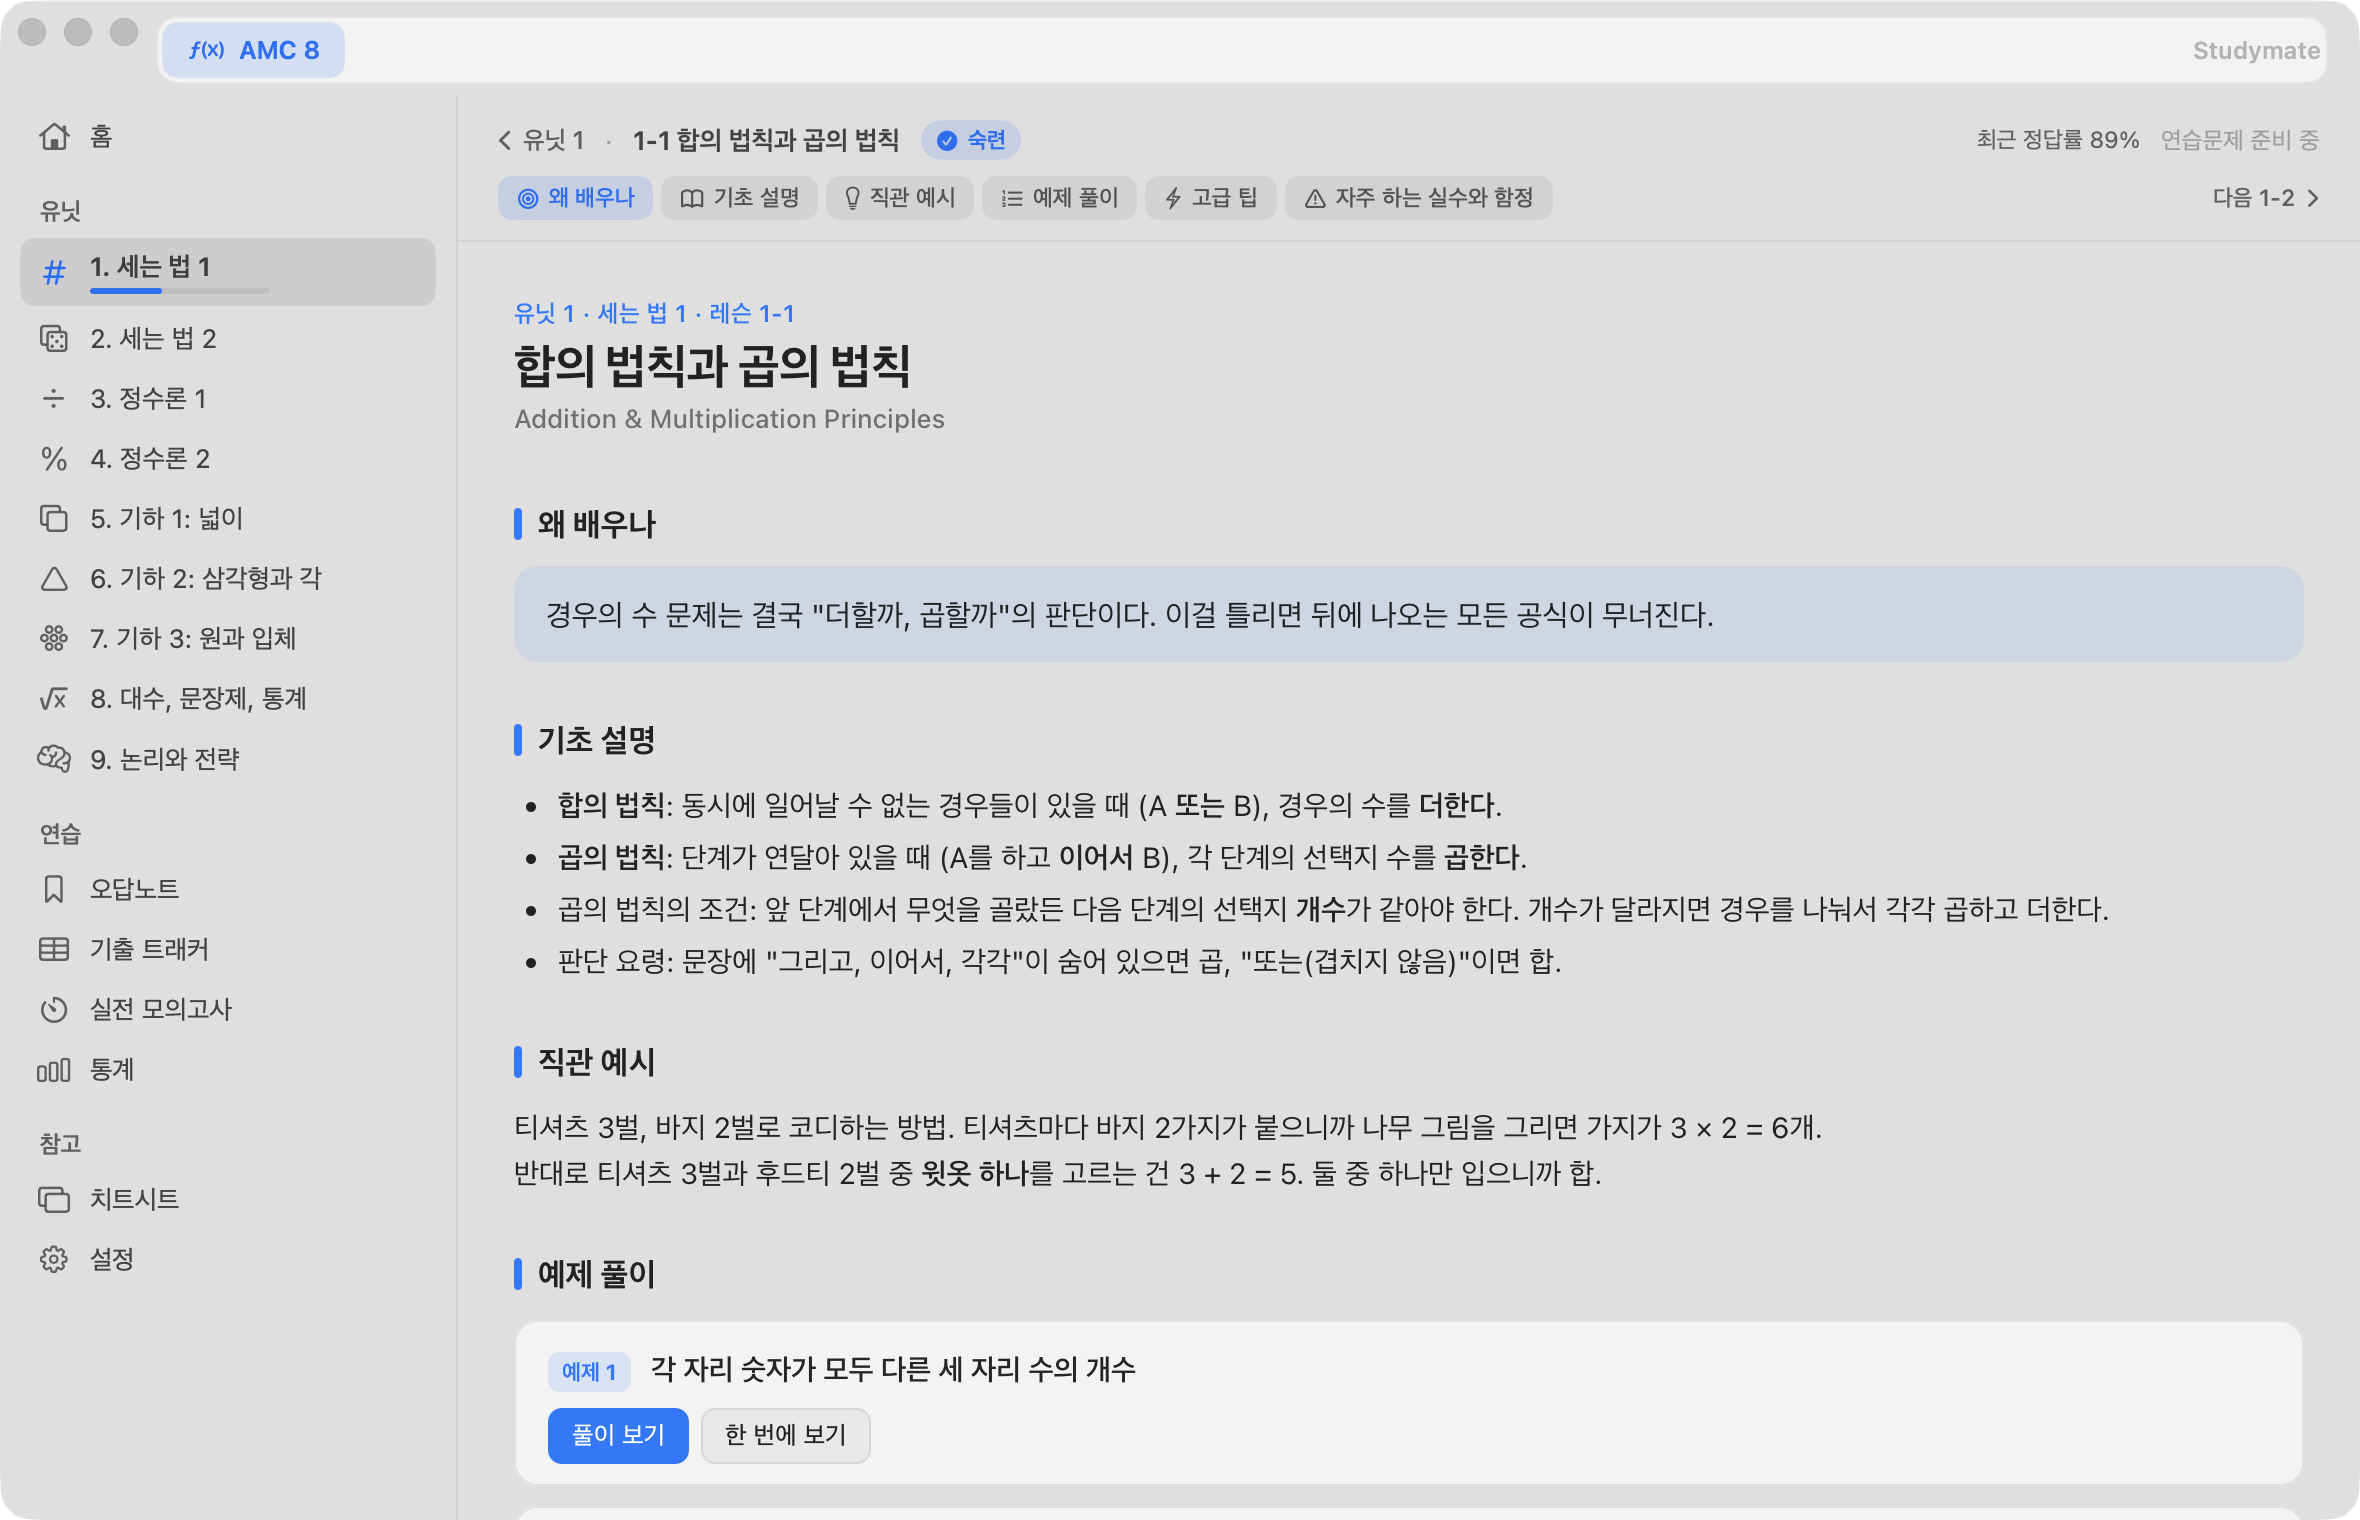
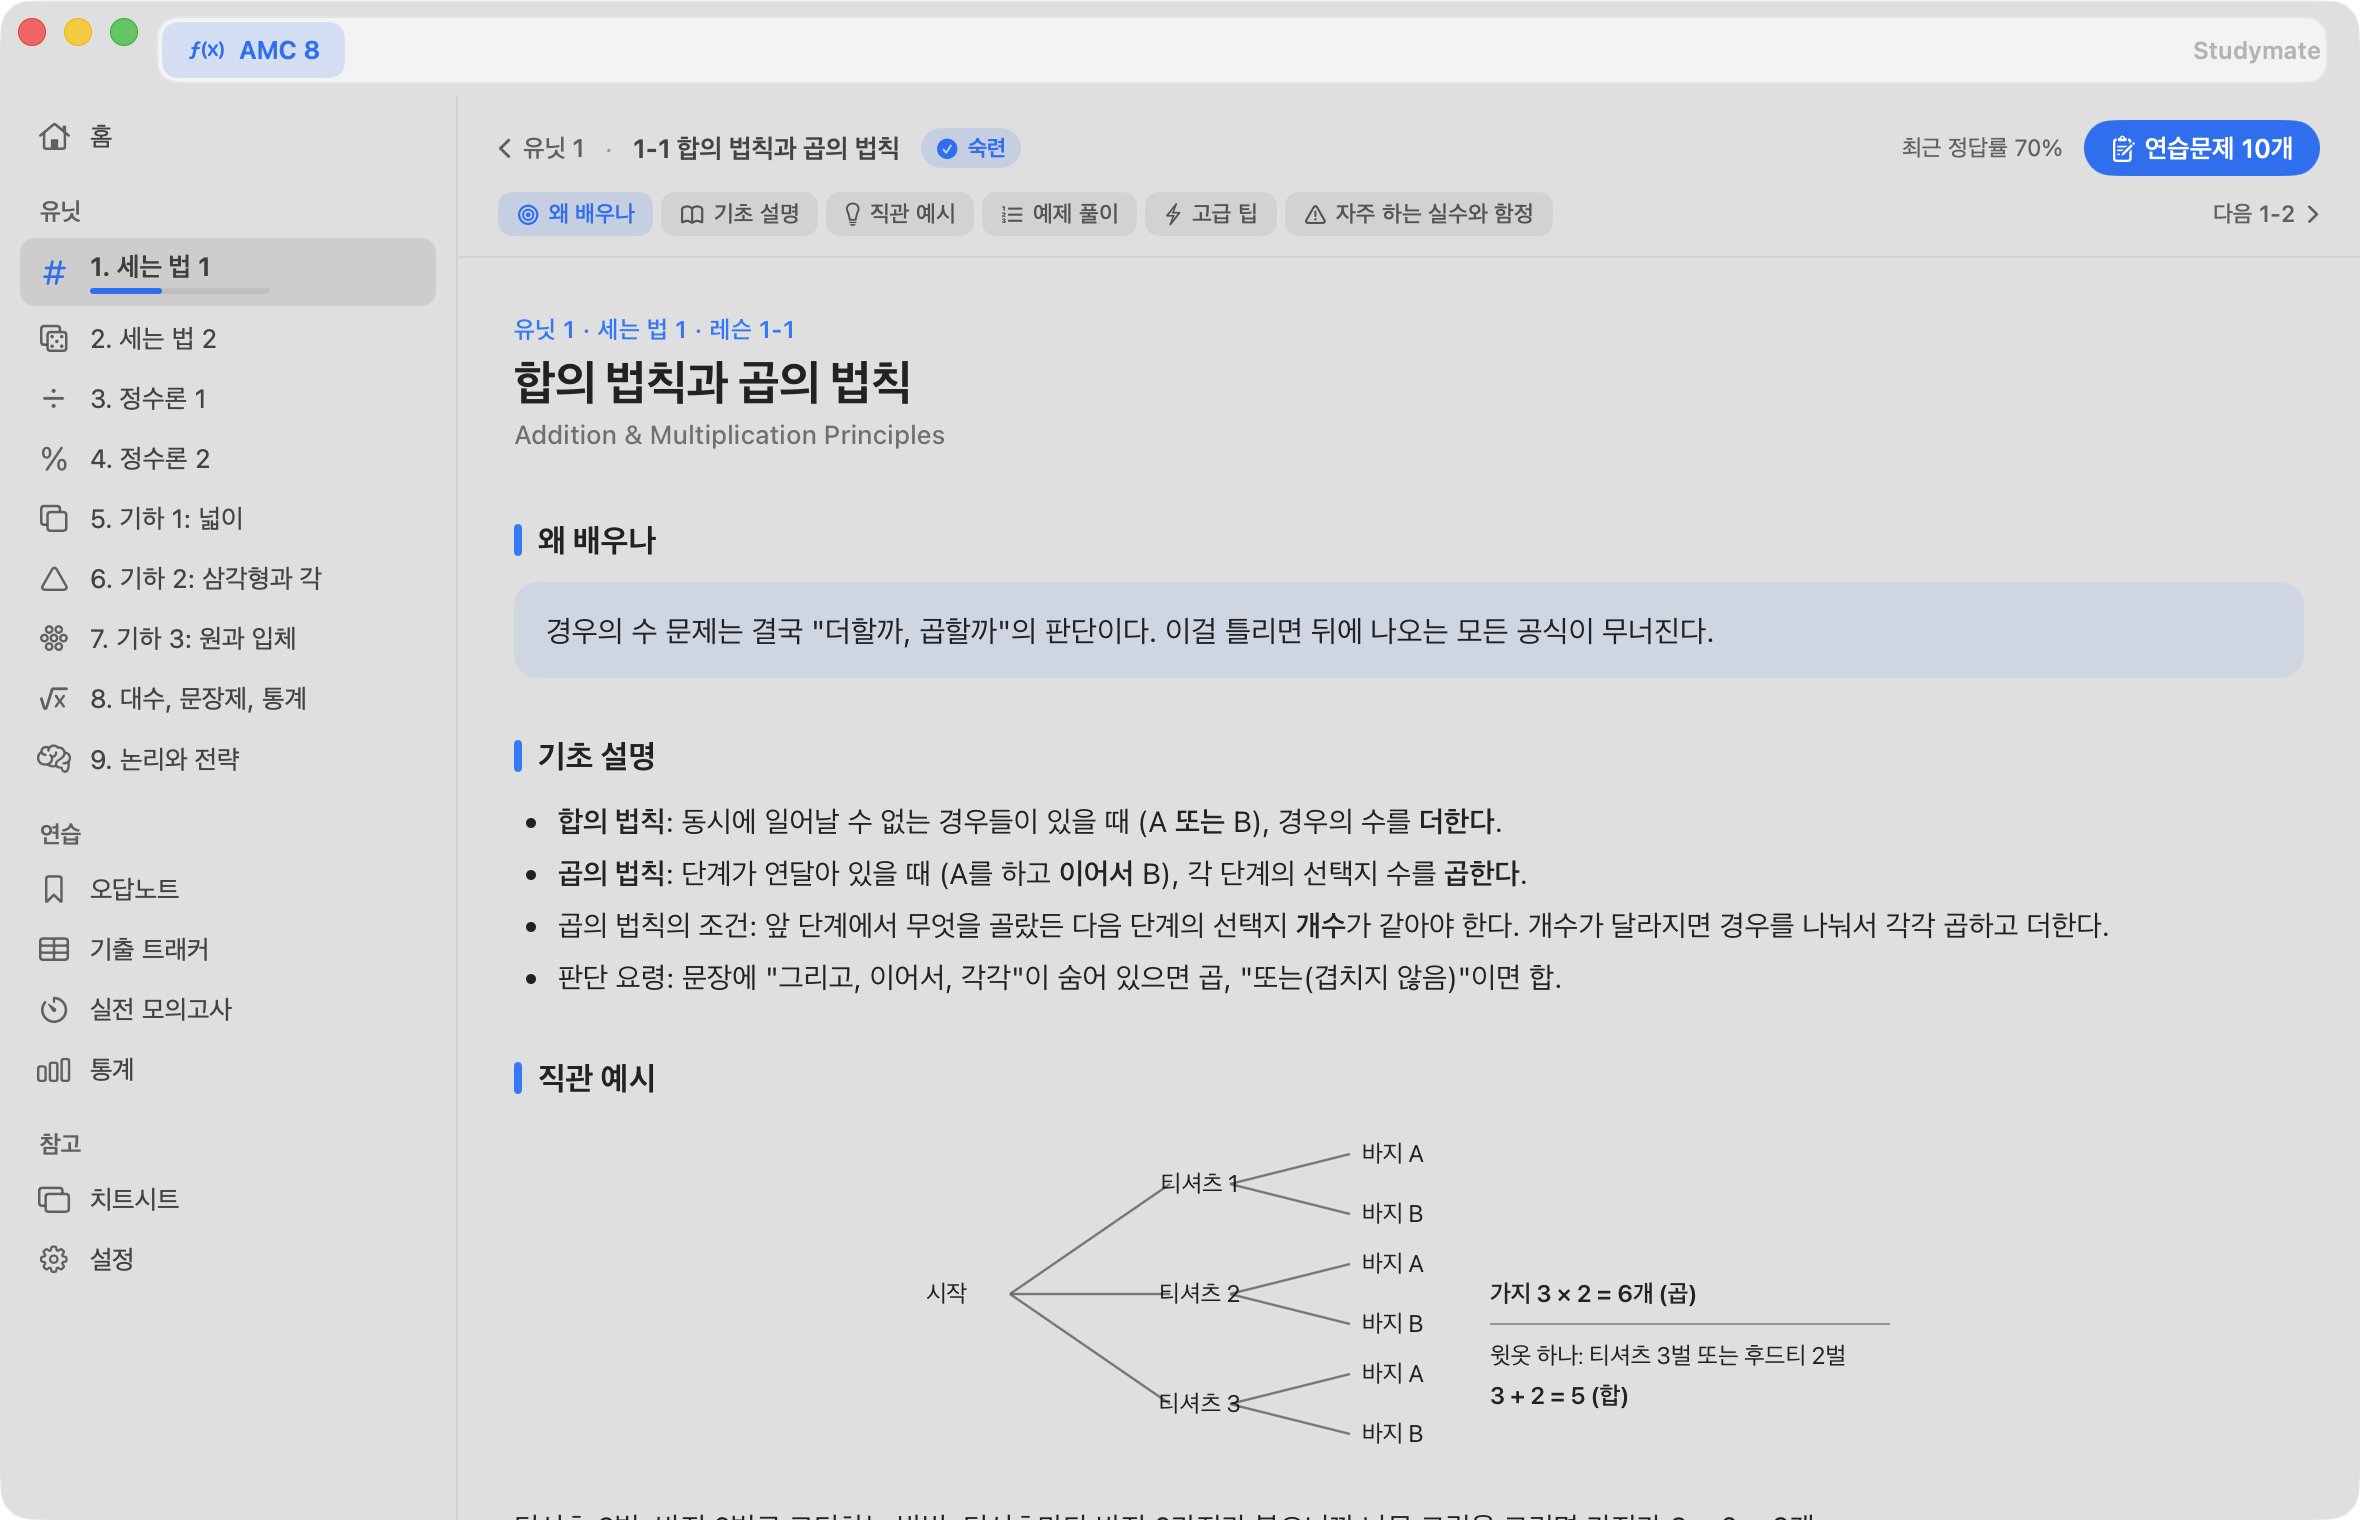
README 스크린샷 전체 재생성, 레슨 섹션으로 스크롤하는 디버그 옵션
STUDYMATE_DEBUG_SCROLL=examples로 레슨 화면을 원하는 섹션에서 찍는다. 기하 연습문제·종이 기출·퀴즈 결과 스크린샷 추가.

diff --git a/Sources/Studymate/App/DebugEnv.swift b/Sources/Studymate/App/DebugEnv.swift
@@ -11,6 +11,7 @@ import Foundation
 ///     mock: answer:B|go:12|next|fill:C|finish   paper: fill:C|grade|mark
 ///   STUDYMATE_DEBUG_LANG=ko            start the problem screen in Korean
 ///   STUDYMATE_DEBUG_FLASHCARDS=1       cheatsheet in flashcard mode
+///   STUDYMATE_DEBUG_SCROLL=examples    lesson screen scrolls to a section (why|basics|intuition|examples|tips|pitfalls)
 ///   STUDYMATE_DEBUG_THEME=jarvis       STUDYMATE_DEBUG_APPEARANCE=dark   skin / appearance for this run only
 enum DebugEnv {
     static let env = ProcessInfo.processInfo.environment
@@ -25,6 +26,7 @@ enum DebugEnv {
     static var problemScript: String? { env["STUDYMATE_DEBUG_PROBLEM"] }
     static var startLanguage: String? { env["STUDYMATE_DEBUG_LANG"] }
     static var flashcards: Bool { env["STUDYMATE_DEBUG_FLASHCARDS"] == "1" }
+    static var lessonScroll: String? { env["STUDYMATE_DEBUG_SCROLL"] }
 
     static var windowSize: CGSize? {
         guard let spec = env["STUDYMATE_WINDOW"] else { return nil }

diff --git a/Sources/Studymate/UI/LessonView.swift b/Sources/Studymate/UI/LessonView.swift
@@ -18,6 +18,10 @@ struct LessonView: View {
                 .onAppear {
                     bridge.setContent(WebTemplate.lesson(lesson, unit: unit))
                     bridge.run("sm.initExamples();")
+                    if let anchor = DebugEnv.lessonScroll {   // snapshots: land on a section once KaTeX has laid out
+                        currentAnchor = anchor
+                        bridge.run("setTimeout(function () { sm.scrollToAnchor(\(WebTemplate.jsString(anchor))); }, 600);")
+                    }
                 }
         }
     }

diff --git a/README.md b/README.md
@@ -33,6 +33,11 @@ Xcode 없이 빌드합니다.
     <td align="center"><img src="docs/screenshots/practice-jarvis-ko.png" width="300"><br><b>JARVIS 테마 · 한국어 번역</b></td>
     <td align="center"><img src="docs/screenshots/flashcards.png" width="300"><br><b>치트시트 플래시카드</b></td>
   </tr>
+  <tr>
+    <td align="center"><img src="docs/screenshots/practice-geometry.png" width="300"><br><b>기하 연습문제</b><br><sub>문제마다 붙는 인라인 SVG 그림</sub></td>
+    <td align="center"><img src="docs/screenshots/paper-grading.png" width="300"><br><b>종이 기출 모드</b><br><sub>40분 타이머 + 답안지 · 직접 채점 → 기출 트래커</sub></td>
+    <td align="center"><img src="docs/screenshots/quiz-summary.png" width="300"><br><b>유닛 퀴즈 결과</b><br><sub>통과 기준 6/8 · 문제별 정오와 걸린 시간</sub></td>
+  </tr>
 </table>
 
 ## 지금 되는 것
@@ -110,6 +115,7 @@ Xcode 없이 Command Line Tools만 있으면 됩니다 (macOS 14+, Swift 5.9+).
 | `STUDYMATE_DEBUG_LANG=ko` | 문제 화면을 한국어로 시작 |
 | `STUDYMATE_DEBUG_THEME=jarvis` · `STUDYMATE_DEBUG_APPEARANCE=dark` | 이번 실행만 테마·외관 지정 |
 | `STUDYMATE_DEBUG_FLASHCARDS=1` | 치트시트를 플래시카드 모드로 |
+| `STUDYMATE_DEBUG_SCROLL=examples` | 레슨 화면을 해당 섹션으로 스크롤 (`why` · `basics` · `intuition` · `examples` · `tips` · `pitfalls`) |
 | `STUDYMATE_CONTENT_DIR=<dir>` · `STUDYMATE_WEB_DIR=<dir>` | 번들 대신 지정 폴더의 콘텐츠 / 웹 리소스 사용 |
 
 `Scripts/dev-run.sh lesson:1-1`처럼 화면 이름을 주면 위 조합으로 실행하고 `build/snap-<화면>.png`를 남깁니다
